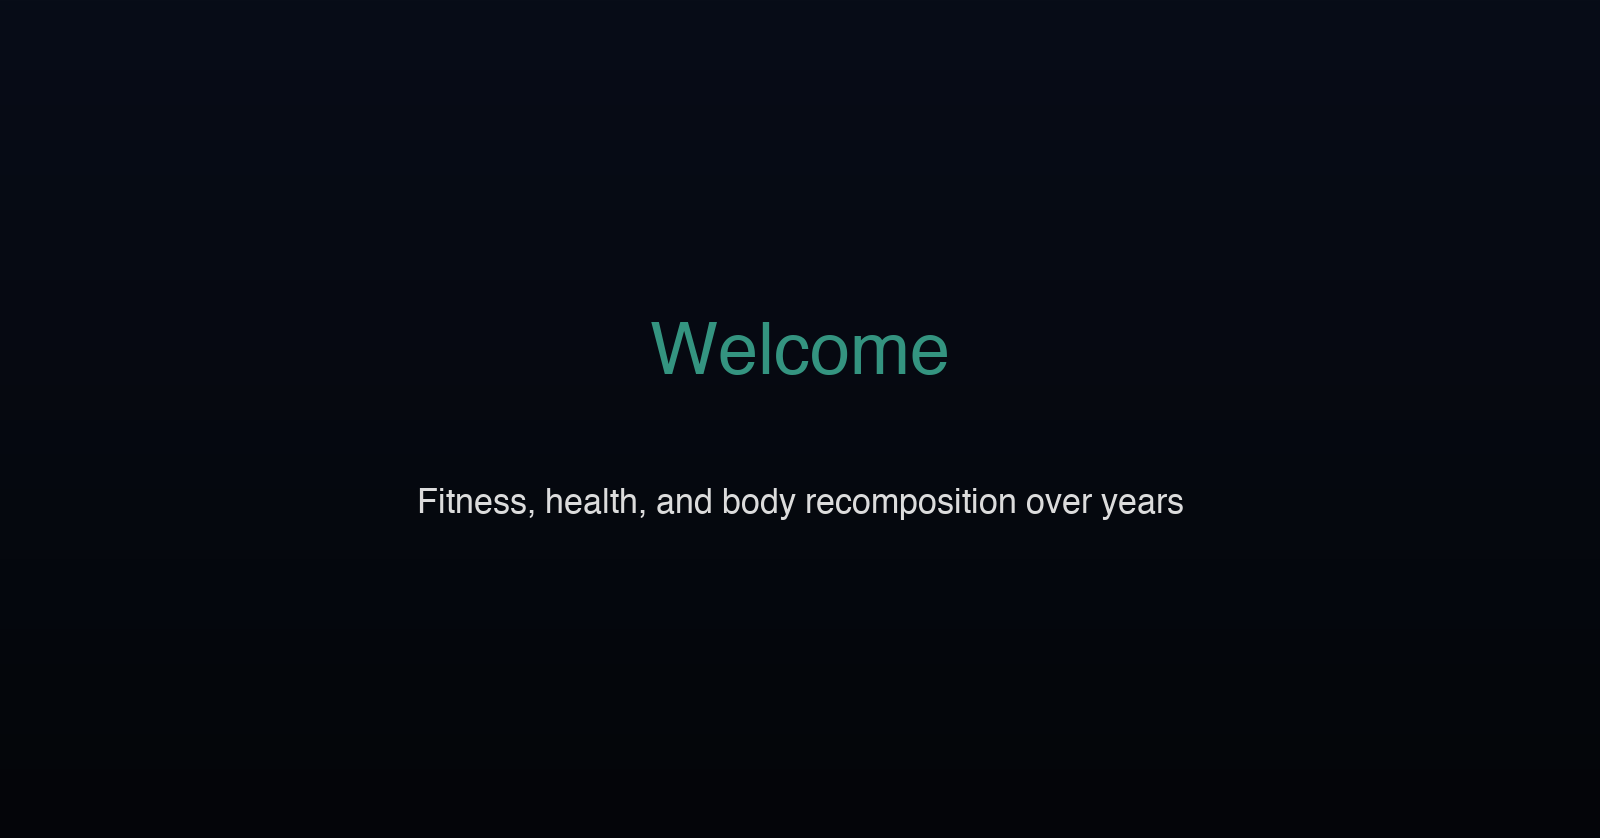
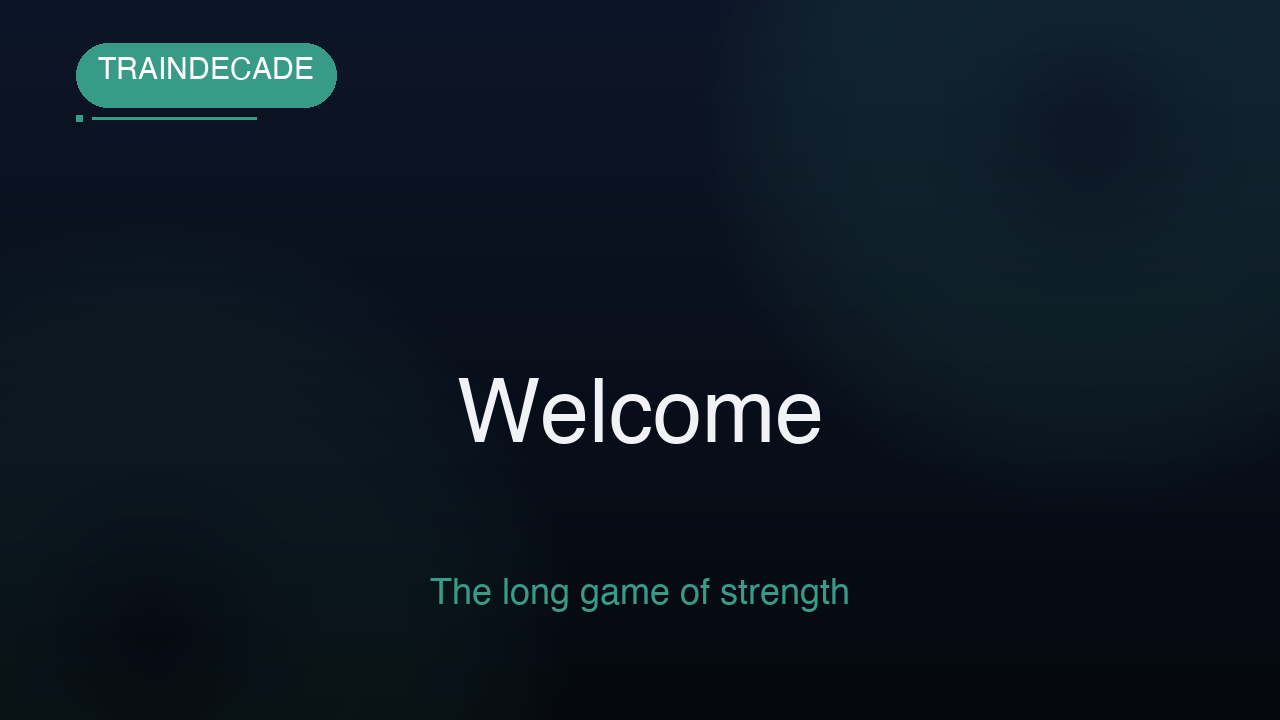
Upgrade hero + cover images to dark/neon style (freeaitool.com reference)
- 16:9 article covers with neon glow + category pill + bold title + accent subtitle
- Hero banner (2.67:1) with dumbbell motif + '20 years in. The long game works.'
- Author-voice tagline reflects Vincent's 20-year gym credibility

diff --git a/scripts/gen_placeholders.py b/scripts/gen_placeholders.py
@@ -1,13 +1,15 @@
-"""Generate dark/cinematic placeholder hero+cover images for Train Decade.
+"""Generate neon/dark article-cover + hero images for Train Decade.
 
-Produces 3 images at 1.91:1 (1600x838) dark gradient + subtle text, matching
-the eventual Nano Banana style (dark, cinematic) so Vincent can hot-swap the
-real generated art later by replacing files in assets/ + static/.
+Style reference: freeaitool.com — dark (deep navy/black) backgrounds, neon
+(crimson/jade) glowing accents, bold text overlays, ~16:9 cards. Stylized
+illustration-grade placeholders (flat vector + neon glow) until real Nano
+Banana art is generated.
 """
 import os
+import math
 
 try:
-    from PIL import Image, ImageDraw, ImageFilter
+    from PIL import Image, ImageDraw, ImageFilter, ImageFont
 except ImportError as e:
     print("PIL NOT AVAILABLE:", e)
     raise SystemExit(2)
@@ -16,59 +18,157 @@ ASSETS = os.path.expanduser("~/Projects/traindecade-web/assets")
 STATIC = os.path.expanduser("~/Projects/traindecade-web/static/images")
 os.makedirs(STATIC, exist_ok=True)
 
-W, H = 1600, 838  # 1.91:1
+# 16:9 for article cards (matches freeaitool) ; hero slightly wider
+W, H = 1280, 720       # 16:9 article cover
+WH, HH = 1920, 720     # hero banner 2.67:1
 
 
-def make_img(path, title, sub, accent, c1, c2):
-    img = Image.new("RGB", (W, H), c1)
-    d = ImageDraw.Draw(img)
-    # vertical gradient
-    for y in range(H):
-        t = y / H
-        r = int(c1[0] + (c2[0] - c1[0]) * t)
-        g = int(c1[1] + (c2[1] - c1[1]) * t)
-        b = int(c1[2] + (c2[2] - c1[2]) * t)
-        d.line([(0, y), (W, y)], fill=(r, g, b))
-    # soft vignette
-    glow = Image.new("RGB", (W, H), (0, 0, 0))
-    gd = ImageDraw.Draw(glow)
-    gd.rectangle([0, 0, W, H], fill=(0, 0, 0))
-    glow = glow.filter(ImageFilter.GaussianBlur(120))
-    img = Image.composite(img, glow, Image.new("L", (W, H), 160))
-    d = ImageDraw.Draw(img)
-    # text
-    from PIL import ImageFont
-    f_title = None
-    f_sub = None
+def _font(size):
     for cand in ("/System/Library/Fonts/Helvetica.ttc",
-                 "/Library/Fonts/Arial.ttf"):
+                 "/Library/Fonts/Arial.ttf",
+                 "/System/Library/Fonts/HelveticaNeue.ttc"):
         if os.path.exists(cand):
             try:
-                f_title = ImageFont.truetype(cand, 72)
-                f_sub = ImageFont.truetype(cand, 34)
-                break
+                return ImageFont.truetype(cand, size)
             except Exception:
                 continue
-    if f_title is None:
-        f_title = ImageFont.load_default()
-        f_sub = ImageFont.load_default()
-    tw = d.textlength(title, font=f_title)
-    d.text(((W - tw) / 2, H * 0.38), title, font=f_title, fill=accent)
-    sw = d.textlength(sub, font=f_sub)
-    d.text(((W - sw) / 2, H * 0.58), sub, font=f_sub, fill=(220, 220, 220))
+    return ImageFont.load_default()
+
+
+def _radial_glow(size, center, radius, color, alpha):
+    w, h = size
+    glow = Image.new("RGBA", (w, h), (0, 0, 0, 0))
+    gd = ImageDraw.Draw(glow)
+    cx, cy = center
+    steps = 40
+    for i in range(steps, 0, -1):
+        r = int(radius * i / steps)
+        a = int(alpha * (1 - i / steps) * (i / steps))
+        gd.ellipse([cx - r, cy - r, cx + r, cy + r], fill=color + (a,))
+    return glow.filter(ImageFilter.GaussianBlur(12))
+
+
+def make_cover(path, title, tag, accent, c_top, c_bot, sub=None):
+    img = Image.new("RGB", (W, H))
+    d = ImageDraw.Draw(img)
+    # diagonal-ish vertical gradient
+    for y in range(H):
+        t = y / H
+        r = int(c_top[0] + (c_bot[0] - c_top[0]) * t)
+        g = int(c_top[1] + (c_bot[1] - c_top[1]) * t)
+        b = int(c_top[2] + (c_bot[2] - c_top[2]) * t)
+        d.line([(0, y), (W, y)], fill=(r, g, b))
+
+    base = img.convert("RGBA")
+    # neon glow top-right + bottom-left
+    g1 = _radial_glow((W, H), (int(W * 0.85), int(H * 0.18)), int(H * 0.55),
+                      accent, 110)
+    g2 = _radial_glow((W, H), (int(W * 0.12), int(H * 0.88)), int(H * 0.60),
+                      accent, 80)
+    base = Image.alpha_composite(base, g1)
+    base = Image.alpha_composite(base, g2)
+    img = base.convert("RGB")
+    d = ImageDraw.Draw(img)
+
+    # accent geometric accents (thin lines / bars) — fake "UI" feel
+    d.rectangle([int(W * 0.06), int(H * 0.16), int(W * 0.06) + 6, int(H * 0.16) + 6],
+                fill=accent)
+    d.line([int(W * 0.06) + 16, int(H * 0.16) + 3, int(W * 0.20), int(H * 0.16) + 3],
+           fill=accent, width=3)
+
+    # tag pill (category)
+    f_tag = _font(30)
+    tag_txt = tag.upper()
+    tw = d.textlength(tag_txt, font=f_tag)
+    pad = 22
+    pill = [int(W * 0.06), int(H * 0.06), int(W * 0.06) + tw + pad * 2, int(H * 0.06) + 64]
+    d.rounded_rectangle(pill, radius=32, fill=accent)
+    d.text((pill[0] + pad, pill[1] + 12), tag_txt, font=f_tag, fill=(255, 255, 255))
+
+    # title
+    f_title = _font(88)
+    words = title.split()
+    line1 = " ".join(words[: len(words) // 2 or 1])
+    line2 = " ".join(words[(len(words) // 2 or 1):])
+    y = int(H * 0.52)
+    for line in (line1, line2):
+        if not line:
+            continue
+        lw = d.textlength(line, font=f_title)
+        d.text(((W - lw) / 2, y), line, font=f_title, fill=(240, 242, 245))
+        y += 100
+
+    # sub
+    if sub:
+        f_sub = _font(36)
+        sw = d.textlength(sub, font=f_sub)
+        d.text(((W - sw) / 2, int(H * 0.80)), sub, font=f_sub, fill=accent)
+
     img.save(path, quality=92)
     print("wrote", path)
 
 
-NAVY = (12, 20, 38)
-CHARCOAL = (6, 8, 14)
-CRIMSON = (196, 54, 74)
-JADE = (52, 148, 128)
+def make_hero(path, title, sub, accent, c_top, c_bot):
+    img = Image.new("RGB", (WH, HH))
+    d = ImageDraw.Draw(img)
+    for y in range(HH):
+        t = y / HH
+        r = int(c_top[0] + (c_bot[0] - c_top[0]) * t)
+        g = int(c_top[1] + (c_bot[1] - c_top[1]) * t)
+        b = int(c_top[2] + (c_bot[2] - c_top[2]) * t)
+        d.line([(0, y), (WH, y)], fill=(r, g, b))
+    base = img.convert("RGBA")
+    g1 = _radial_glow((WH, HH), (int(WH * 0.78), int(HH * 0.30)), int(HH * 0.7),
+                      accent, 120)
+    g2 = _radial_glow((WH, HH), (int(WH * 0.10), int(HH * 0.85)), int(HH * 0.7),
+                      accent, 90)
+    base = Image.alpha_composite(base, g1)
+    base = Image.alpha_composite(base, g2)
+    img = base.convert("RGB")
+    d = ImageDraw.Draw(img)
 
-# Hero (goes to static/images) + two article covers (assets/)
-make_img(os.path.join(STATIC, "hero.jpg"), "TRAIN DECADE",
-         "The long game — a decade of strength, not six weeks", CRIMSON, NAVY, CHARCOAL)
-make_img(os.path.join(ASSETS, "cover-welcome.png"), "Welcome",
-         "Fitness, health, and body recomposition over years", JADE, NAVY, CHARCOAL)
-make_img(os.path.join(ASSETS, "cover-decade.png"), "Why a Decade",
-         "Not a six-week challenge", CRIMSON, NAVY, CHARCOAL)
+    f_title = _font(120)
+    tw = d.textlength(title, font=f_title)
+
+    # subtle dumbbell motif above the title (two plates + bar)
+    cy = int(HH * 0.20)
+    cx = WH // 2
+    bar_y = cy
+    d.rounded_rectangle([cx - 140, bar_y - 8, cx + 140, bar_y + 8], radius=8,
+                        fill=accent)
+    _plate = lambda x: d.rounded_rectangle(
+        [x - 26, bar_y - 46, x + 26, bar_y + 46], radius=16, fill=accent)
+    _plate(cx - 140)
+    _plate(cx + 140)
+    _plate(cx - 96)
+    _plate(cx + 96)
+
+    d.text(((WH - tw) / 2, int(HH * 0.34)), title, font=f_title, fill=(240, 242, 245))
+
+    f_sub = _font(44)
+    sw = d.textlength(sub, font=f_sub)
+    d.text(((WH - sw) / 2, int(HH * 0.66)), sub, font=f_sub, fill=accent)
+    img.save(path, quality=92)
+    print("wrote", path)
+
+
+NAVY = (13, 22, 40)
+DEEP = (5, 8, 14)
+CRIMSON = (214, 61, 82)
+JADE = (55, 155, 135)
+
+# Article covers (16:9, assets/)
+make_cover(os.path.join(ASSETS, "cover-decade.png"),
+           "Why a Decade",
+           "Mindset", CRIMSON, NAVY, DEEP,
+           sub="Not a 6-week challenge")
+make_cover(os.path.join(ASSETS, "cover-welcome.png"),
+           "Welcome",
+           "Traindecade", JADE, NAVY, DEEP,
+           sub="The long game of strength")
+
+# Hero (2.67:1, static/images/hero.jpg)
+make_hero(os.path.join(STATIC, "hero.jpg"),
+          "TRAIN DECADE",
+          "20 years in. The long game works.",
+          CRIMSON, NAVY, DEEP)
